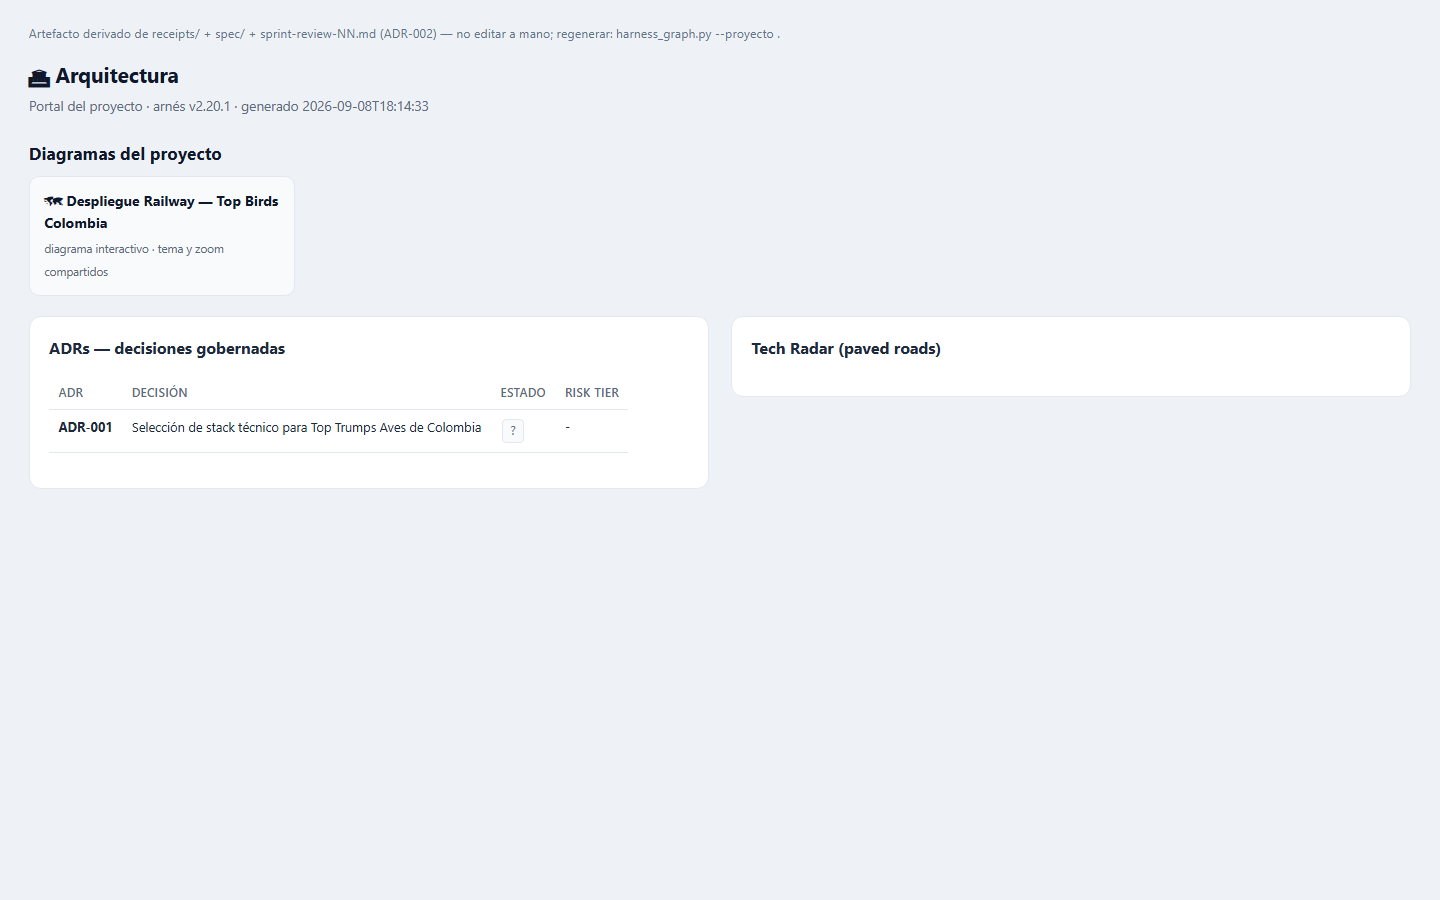
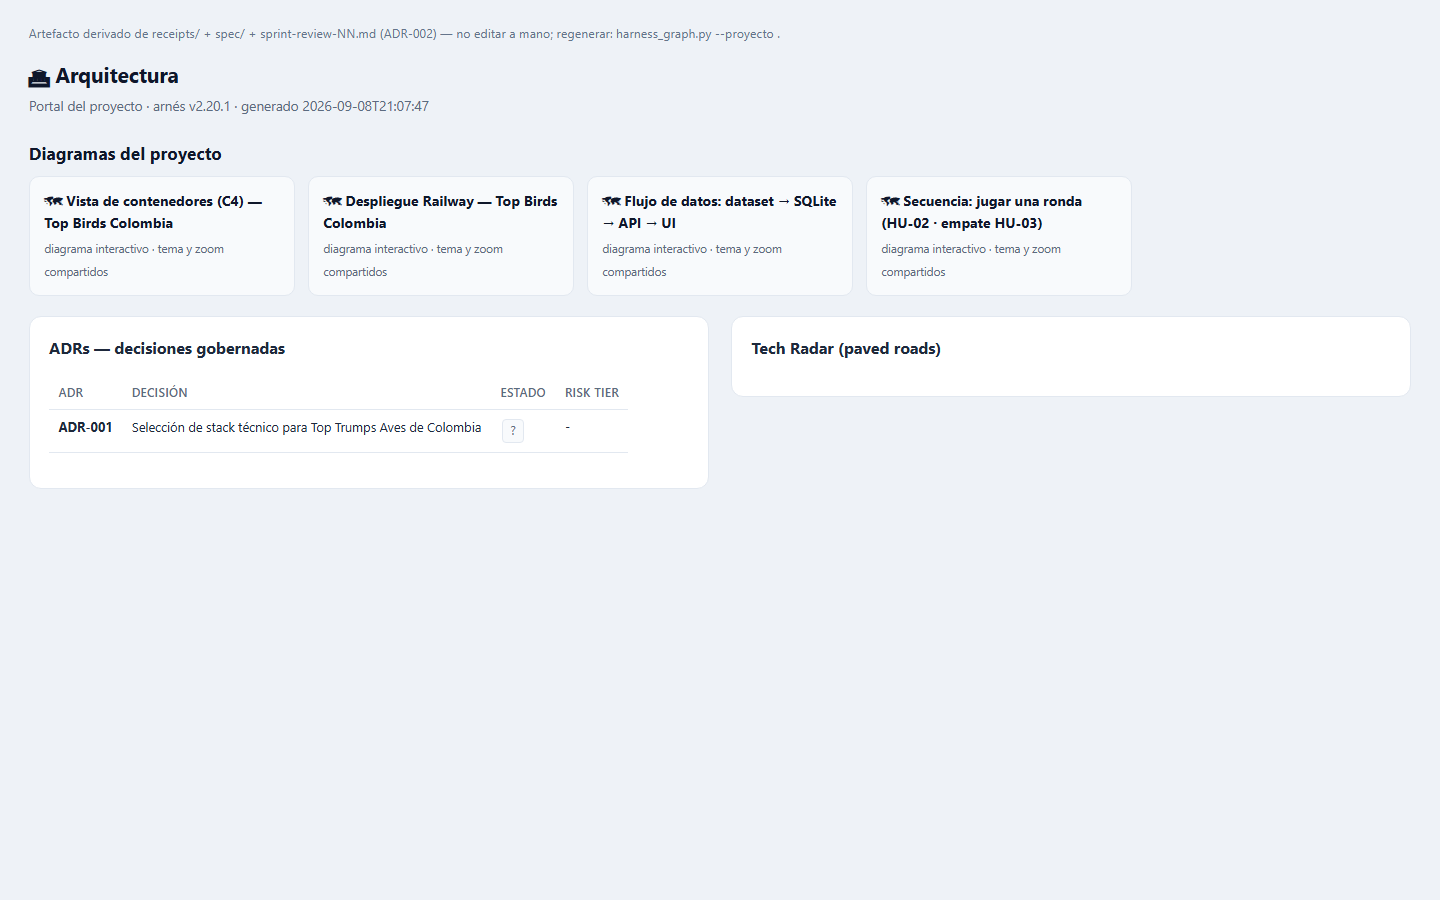
docs: actualizar README con funcionalidades S18 (HU-18..HU-20, RN-17..RN-20) y re-capturar imagenes del portal

diff --git a/README.md b/README.md
@@ -1,17 +1,19 @@
 # Top Trumps Aves de Colombia
 
-Aplicación demo de cartas estilo Top Trumps con aves de Colombia. Construida para demostrar un arnés de desarrollo de software completo (SDD + TDD + RDD) en 15 sprints.
+Aplicación demo de cartas estilo Top Trumps con aves de Colombia. Construida para demostrar un arnés de desarrollo de software completo (SDD + TDD + RDD) en 18 sprints.
 
 ## Funcionalidades
 
-- **Selección de baraja al iniciar partida (HU-09)**: el jugador elige entre una baraja temática aleatoria (por defecto, elegida server-side), la colección completa de 52 cartas o una expedición por región (Andina, Caribe, Pacífico, Amazonía, Orinoquía) con el conteo de aves en pantalla.
+- **Selección de baraja al iniciar partida (HU-09, RN-20)**: el jugador elige entre una baraja temática aleatoria (por defecto, elegida server-side), la colección completa de 52 cartas o una expedición por región (Andina, Caribe, Pacífico, Amazonía, Orinoquía). Cada opción se presenta como tarjeta con la imagen representativa de la primera ave del mazo, el nombre y el conteo de aves; «Aleatoria» usa placeholder.
 - **Baraja curada de 52 aves** generada desde `topbirds_dataset` (iNaturalist Open Data): siempre incluye las 13 especies amenazadas (UICN VU/EN/CR), prioriza las 146 especies con dimorfismo sexual y está balanceada por región; cada carta lleva atribución de fotógrafo y licencia.
-- **Cartas enriquecidas con fotografía (HU-10, HU-12, HU-15)**: thumbnails webp (~200 px) servidos por el frontend con variantes por sexo; las especies dimórficas muestran badge y toggle macho/hembra, las amenazadas (UICN VU/EN/CR) llevan sello de conservación y las migratorias boreales un badge de visitante (temporada nov-feb).
+- **Fotografía en calidad original (HU-20, RN-19)**: las cartas se sirven con los JPG originales del dataset, copiados sin pérdida (`scripts/build_card_images.py`); los thumbnails webp con pérdida quedaron eliminados. Las variantes por sexo se conservan: las especies dimórficas muestran badge y toggle macho/hembra, las amenazadas (UICN VU/EN/CR) llevan sello de conservación y las migratorias boreales un badge de visitante (temporada nov-feb).
 - **Bono «¿Macho o hembra?» (HU-11, RN-10)**: una vez por partida, en tu turno, puedes apostar el sexo de la carta del oponente; acertar gana la ronda aunque pierdas el atributo.
 - **Ronda de altitud (HU-14, RN-11)**: una vez por partida puedes jugar el atributo oculto `altitud_max_msnm` («¿Quién vive más alto?»).
 - **Combo taxonómico (HU-16, RN-12)**: ganar dos rondas seguidas con aves del mismo orden suma +1 carta del oponente.
 - **Resumen de expedición (HU-13)**: al terminar, la pantalla de resultado lista las aves que viste («Tu expedición por {región}» o «Tu recorrido por Colombia»).
 - **Quiz «Modo Ornitólogo» (HU-17, RN-14)**: modo de práctica con fotos y 4 opciones de identificación (nombre común + científico), puntaje de 5 preguntas y crédito del fotógrafo.
+- **Identidad de jugadores (HU-18, RN-17)**: nombres opcionales al iniciar (máx. 20 caracteres; «Tu nombre» en modo IA, «Jugador 1/2» en hot-seat), visibles en marcador, indicador de turno, comparación de rondas y pantalla final («¡Ana ganó la partida!»). En blanco se usan los valores por defecto «Tú/IA» o «Jugador 1/2».
+- **Presentación visual y copy amigable (HU-19, RN-18)**: imágenes en proporción 4:3 sin recorte severo, panel de resultado de ronda con banda de color (verde/rojo/ámbar) y modal de detalle con foto, taxonomía y estacionalidad; ningún texto visible expone códigos de trazabilidad del proyecto.
 - Modos de juego contra la IA o hot-seat (dos humanos, mismo dispositivo).
 - API REST con validación de contrato (Schemathesis), rate limiting y headers de seguridad.
 - Portal SDLC auto-generado que publica la spec, recibos SHA-256, métricas y memoria del proyecto (ver siguiente sección).
@@ -21,7 +23,16 @@ Aplicación demo de cartas estilo Top Trumps con aves de Colombia. Construida pa
 - **Implementación completa con TDD** (orden test→feat verificado): 76 thumbnails webp con crédito de fotógrafo y licencia, `barajas.json` 1.1.0 enriquecido (variantes por sexo, UICN, orden, endemismo, estacionalidad, altitud), backend con RN-10/11/12 (bono «¿Macho o hembra?», ronda de altitud, combo taxonómico) y frontend con las 8 historias implementadas.
 - **Suites verdes**: pytest 94.85 % de cobertura (backend), vitest 59/59 (frontend) y build OK.
 - **Fase 8 cerrada**: sprint review 17 en `spec/reports/sprint-review-17.md` (43 recibos vigentes, gates al primer intento 100 %, 0 roles en freestyle), memorias archivadas sin conflictos ni candidatos pendientes, portal regenerado (45 páginas) con `--check` sin drift.
-- **Pendiente para el Sprint 18**: RN-15 (empate con amenazada, requiere decisión del PO) y 7 cartas sin thumbnail por imágenes fuente ausentes (el frontend muestra placeholder).
+- **Pendiente heredado**: RN-15 (empate con amenazada, requiere decisión del PO). Las cartas sin imagen fuente muestran placeholder (ya sin dependencia de thumbnails webp, ver Sprint 18).
+
+## Resultados del Sprint 18 (identidad de jugadores, presentación visual y calidad de imagen)
+
+- **Identidad de jugadores (HU-18/RN-17)**: inputs de nombre en el Home (uno en modo IA, dos en hot-seat) con envío al backend (`jugador_nombre`/`oponente_nombre`) y threading completo hasta `Game`, `Scoreboard` y `Result`; vitest 64/64 y deploy verificado en producción.
+- **Presentación visual y copy (HU-19/RN-18)**: imágenes 4:3 con recorte centrado en carta, quiz y detalle; panel de resultado con banda de color según ganador; modal de detalle con foto, orden y estacionalidad; copy sin códigos internos (0 coincidencias `RN-\d+` en el bundle de producción).
+- **Calidad original de imagen (HU-20/RN-19, supersedes S17-DE-01)**: se eliminaron los 76 thumbnails webp con pérdida y se sirven los 76 JPG originales del dataset (~24 MB versionados en `src/frontend/public/cards/`); `barajas.json` sube a 1.2.0 apuntando a `.jpg`.
+- **Barajas con imagen representativa (HU-09 esc. 6/RN-20)**: `GET /barajas` expone `BarajaInfo.imagen_url` (primera carta del mazo con foto, determinista) y el selector del Home se renderiza como tarjetas con imagen; «Aleatoria» usa placeholder.
+- **Suites verdes**: pytest 94.86 % de cobertura (backend), vitest 65/65 (frontend) y build OK. TDD en orden test→feat; delta de spec (HU-20, RN-19/20) escrito antes del código, 8 recibos re-emitidos (49/49 vigentes).
+- **Deploy**: commit en `main` con auto-deploy en Railway; verificado en producción (`/api/barajas` con `imagen_url`, `/cards/*.jpg` en calidad original, bundle nuevo en vivo).
 
 ## Stack
 
